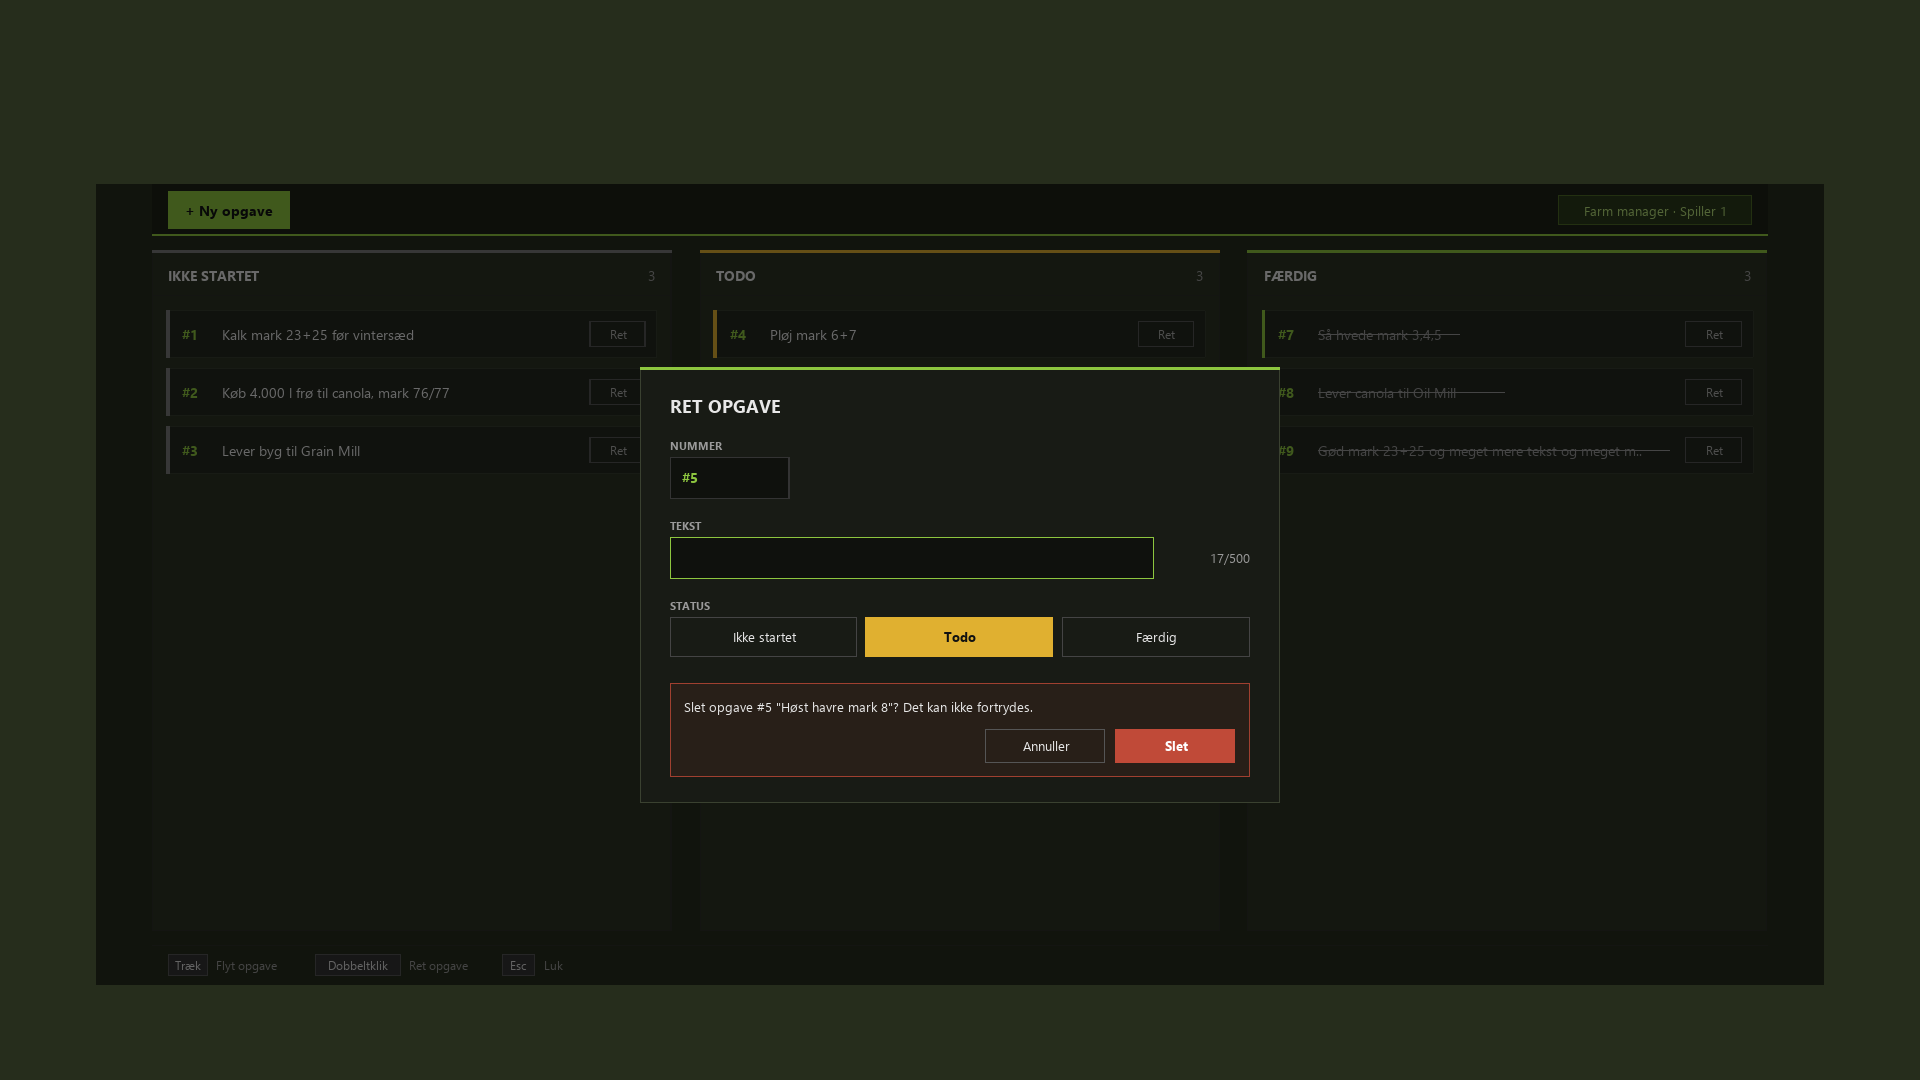
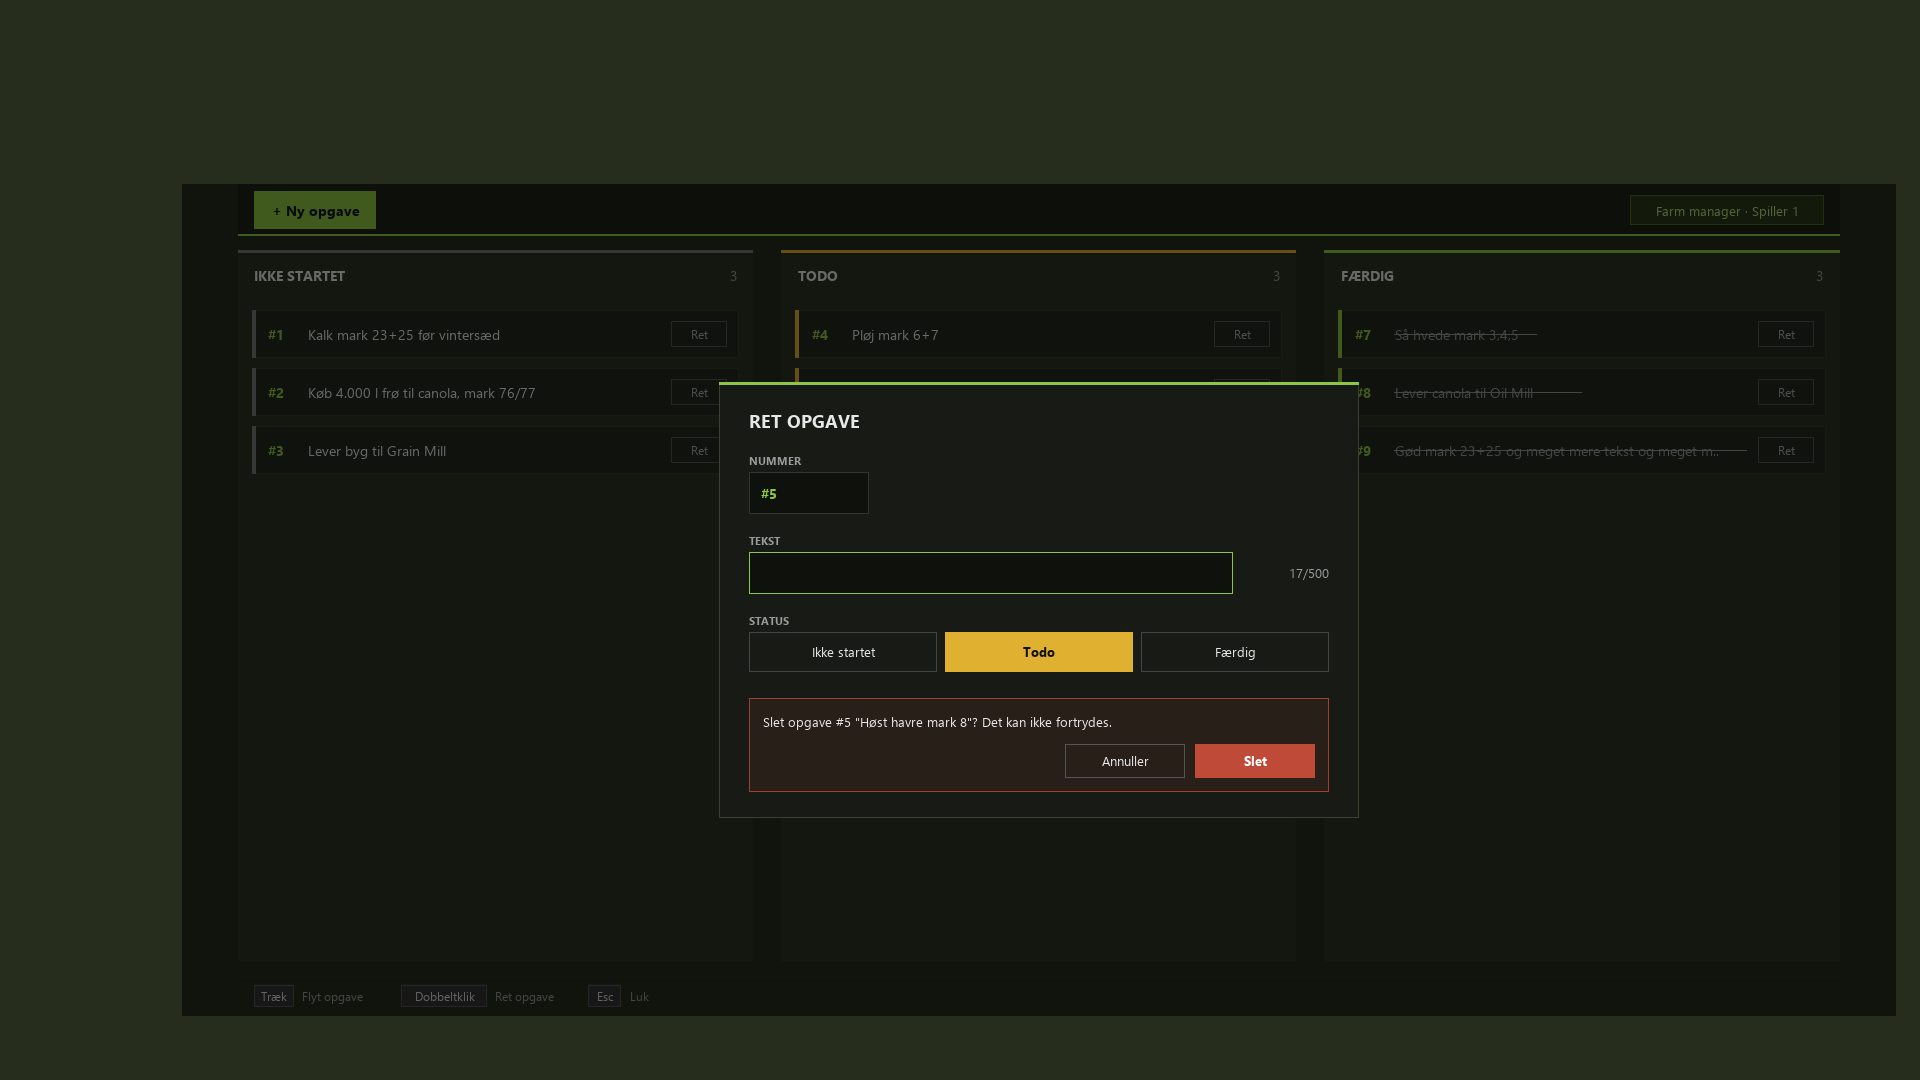
Keep the board on screen: clamp to the right screen edge and above the menu button bar
The menu container is wider than the visible screen at 16:9 and reaches under
the E/Q/Esc button bar; the third column and the role badge were cut off.
Smoke test stub now has the same container size and checks the board stays on screen.

Claude-Session: https://claude.ai/code/session_01TNd394oUc5MmmKeWTKhM9X

diff --git a/tests/smoke_test.py b/tests/smoke_test.py
@@ -55,10 +55,13 @@ g_pixelSizeScaledY = 1 / 1080
 RenderText = { ALIGN_LEFT = 0, ALIGN_CENTER = 1, ALIGN_RIGHT = 2 }
 Input = { MOUSE_BUTTON_LEFT = 1, MOUSE_BUTTON_WHEEL_UP = 4, MOUSE_BUTTON_WHEEL_DOWN = 5 }
 InputAction = { MENU_BACK = 1, MENU_PAGE_PREV = 2, MENU_PAGE_NEXT = 3 }
+RECT_EXTENT = { maxX = 0, minY = 1 }
 function drawFilledRect(x, y, w, h, r, g, b, a)
   for _, v in ipairs({ x, y, w, h, r, g, b, a }) do
     if type(v) ~= "number" or v ~= v then error("drawFilledRect with bad value") end
   end
+  RECT_EXTENT.maxX = math.max(RECT_EXTENT.maxX, x + w)
+  RECT_EXTENT.minY = math.min(RECT_EXTENT.minY, y)
 end
 function renderText(x, y, size, text)
   if type(text) ~= "string" then error("renderText with " .. type(text)) end
@@ -212,8 +215,10 @@ g_gui = { frames = {} }
 function g_gui:loadGui(file, name, frame)
   for _, id in ipairs(FRAME_IDS) do frame[id] = GuiElement.stub(id) end
   local root = GuiElement.stub("root")
-  root.absPosition, root.absSize = { 0.05, 0.08 }, { 0.9, 0.82 }
-  frame.headerPanel.absPosition = { 0.05, 0.84 }
+  -- As in the game at 16:9: the menu container starts right of the tab bar, is wider than what
+  -- is left of the screen and reaches down under the menu's button bar
+  root.absPosition, root.absSize = { 0.095, 0.0 }, { 0.95, 0.9 }
+  frame.headerPanel.absPosition = { 0.095, 0.84 }
   frame.elements[1] = root
   self.frames[name] = frame
 end
@@ -360,6 +365,9 @@ def single_player():
     check(ev("#board().tasks") == 0, "new savegame starts empty")
     check(ev("findHit('new') ~= nil"), "+ Ny opgave shown to the farm manager")
     check(ev("rendered('Farm manager · Spiller 1')"), "role badge")
+    run("RECT_EXTENT = { maxX = 0, minY = 1 } frameStep()")
+    check(ev("RECT_EXTENT.maxX") <= 1 - 20 / 1920, "board ends left of the right screen edge: %s" % ev("RECT_EXTENT.maxX"))
+    check(ev("RECT_EXTENT.minY") >= 60 / 1080, "board stays above the menu's button bar: %s" % ev("RECT_EXTENT.minY"))
 
     # Create: numbers 1, 2, 3, 4
     run("newTask('Pløj mark 6+7')")
